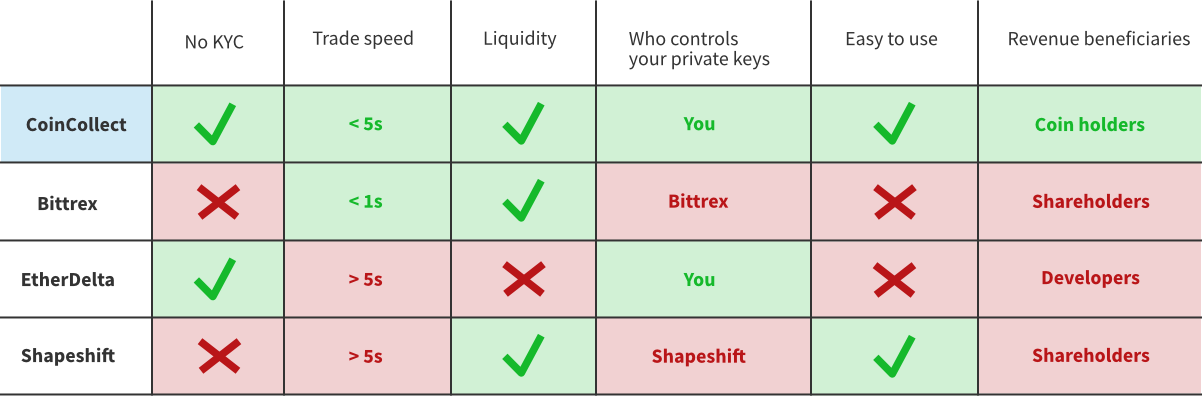
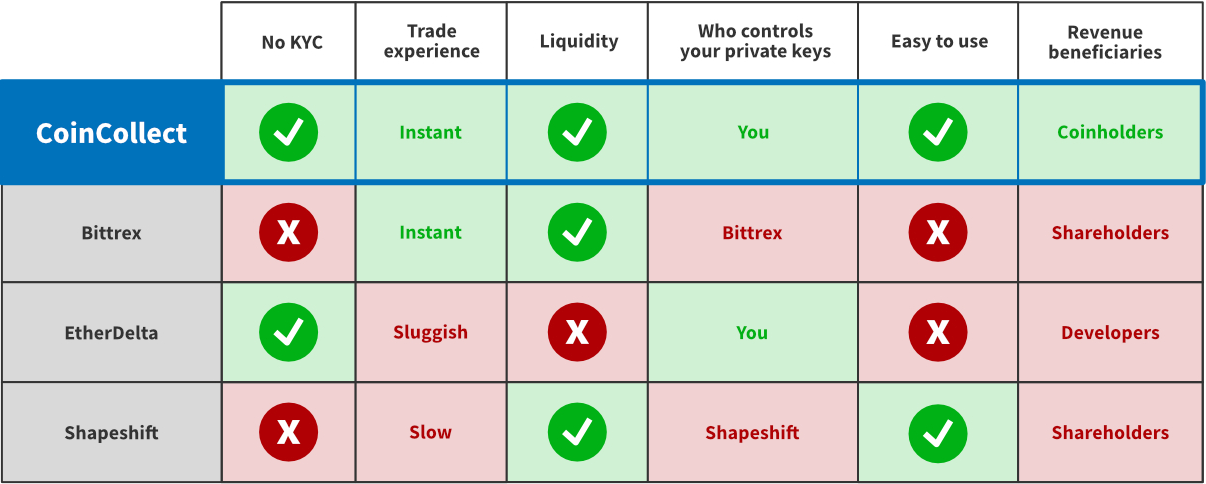
Updated Competitors & Solution design

diff --git a/src/views/Solution/Solution.js b/src/views/Solution/Solution.js
@@ -5,12 +5,14 @@ class Solution extends Component {
   render() {
     return (
       <div className="Solution">
-        <div className="max-width"> 
+        <div className="max-width flex flex-wrap"> 
 
-          <h1>Our solution.</h1>
+          <h1>
+            Our solution to lowering the entry barrier of crypto.
+          </h1>
 
-          <dl className="flex flex-wrap">
-            <dt>One platform to buy, manage and trade your coins.</dt>
+          <dl>
+            <dt><h2>One platform to buy, manage and trade your coins.</h2></dt>
             <dd>
               <p>
                 We integrate the best fiat gateways to make sure you can buy crypto with fiat in CoinCollect.
@@ -19,7 +21,7 @@ class Solution extends Component {
                 We use cutting edge decentralized technology in CoinCollect to ensure that you can easily trade and securely hodl* in your application.
               </p>
             </dd>
-            <dt>You are the master of your keys.</dt>
+            <dt><h2>You are the master of your keys.</h2></dt>
             <dd>
               <p>
                 In CoinCollect we use advanced decentralized technology to make sure you own your keys. Meaning you are, at any time, in full control.
@@ -28,7 +30,7 @@ class Solution extends Component {
                 We eliminate every doubt you had about the vulnerability of first generation exchanges.
               </p>
             </dd>
-            <dt>A smooth user experience.</dt>
+            <dt><h2>A smooth user experience.</h2></dt>
             <dd>
               <p>
                 CoinCollect is the most smooth experience there is in the crypto world. Every screen navigates intuitively and is crystal clear.

diff --git a/src/views/Solution/Solution.css b/src/views/Solution/Solution.css
@@ -2,30 +2,41 @@
   background: #000;
   padding: 80px;
   color: #fff;
-  background: #2ba8f9;
-  background: -moz-linear-gradient(left, #2ba8f9 0%, #0275be 100%);
-  background: -webkit-linear-gradient(left, #2ba8f9 0%,#0275be 100%);
-  background: linear-gradient(to right, #2ba8f9 0%,#0275be 100%);
-  filter: progid:DXImageTransform.Microsoft.gradient( startColorstr='#2ba8f9', endColorstr='#0275be',GradientType=1 );
+  background: #30afff;
+  background: -moz-linear-gradient(45deg, #30afff 0%, #0072bb 50%, #0072bb 100%);
+  background: -webkit-linear-gradient(45deg, #30afff 0%,#0072bb 50%,#0072bb 100%);
+  background: linear-gradient(45deg, #30afff 0%,#0072bb 50%,#0072bb 100%);
+  filter: progid:DXImageTransform.Microsoft.gradient( startColorstr='#30afff', endColorstr='#0072bb',GradientType=1 );
 }
 .Solution > .max-width {
   width: 1000px;
 }
+.Solution > .max-width > * {
+  flex: 1;
+}
 .Solution h1 {
   font-size: 44px;
-  text-align: center;
+  line-height: 50px;
+  text-align: left;
+  margin-right: 22px;
 }
+
 .Solution dl {
-  width: 100%;
   margin-top: 90px;
+  color: #fff;
+  padding: 50px;
+  border-radius: 50px;
+  margin-left: 22px;
+  margin-top: -12px;
+  width: 650px;
+  max-width: 100%;
 }
 .Solution dt {
-  flex: 0 1 50%;
-  font-weight: bold;
-  font-size: 1.4em;
+  margin: 0;
+  color: #fff;
 }
 .Solution dd {
-  flex: 1 0 40%;
+  margin: 0;
   margin-bottom: 80px;
 }
 .Solution dd > p:first-child {

diff --git a/src/views/Competitors/Competitors.js b/src/views/Competitors/Competitors.js
@@ -6,7 +6,7 @@ class Competitors extends Component {
   render() {
     return (
       <article className="Competitors">
-        <h1>CoinCollect versus competitors</h1>
+        <h1>CoinCollect versus normal exchanges</h1>
         <img src={table} alt="Table with CoinCollect versus competitors" />
       </article>
     );
